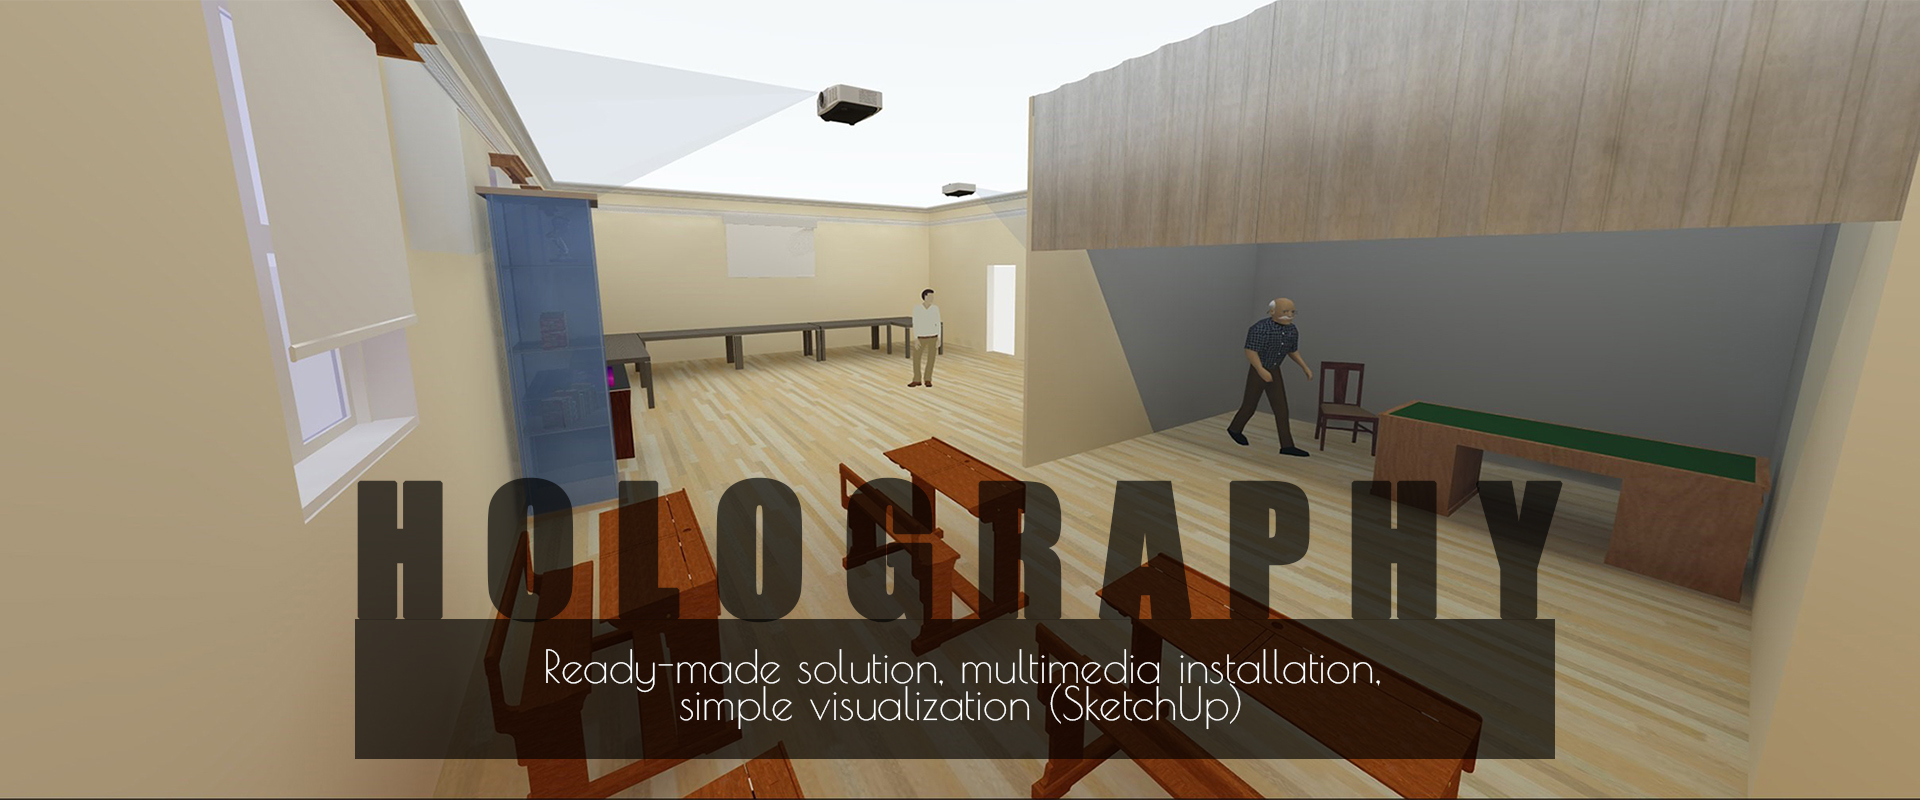
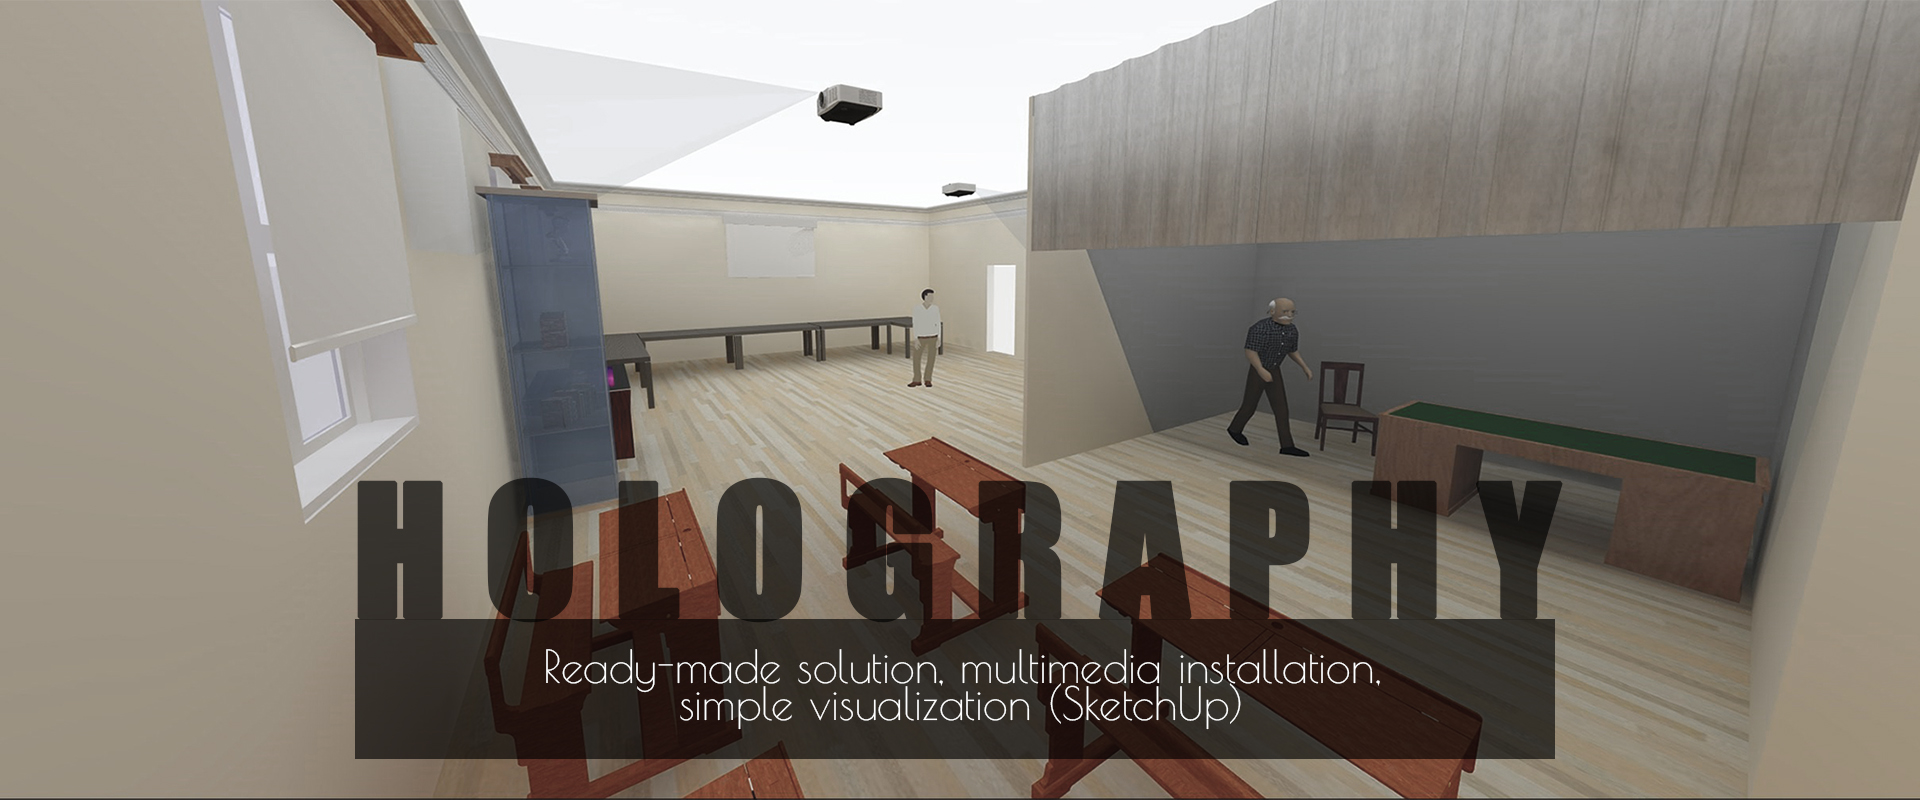
opacity

diff --git a/public/css/main.scss b/public/css/main.scss
@@ -89,18 +89,16 @@ svg {
 	display: none;
 	position: absolute;
 	padding: 10px;
-	width: 340px;
-	height: 220px;
+	width: 70%;
 	text-align: center;
 	line-height: 20px;
 	background-color: rgba(0, 0, 0, 0.637);
-	opacity: 0.8;
+	opacity: 1;
   top: 75%;
-  left: 35.5%;
-  margin-right: -50%;
+  margin: 0 15%;
 	font-family: 'Jura';
-	font-size: 15;
-	font-weight: 600;
+  font-size: 14;
+  font-weight: 600;
   color: antiquewhite;
   z-index: 9999;
 }
@@ -109,15 +107,13 @@ svg {
 	display: none;
 	position: absolute;
 	padding: 10px;
-	width: 340px;
-	height: 150px;
+	width: 70%;
 	text-align: center;
 	line-height: 20px;
 	background-color: rgba(0, 0, 0, 0.637);
-	opacity: 0.8;
+	opacity: 1;
   top: 75%;
-  left: 35.5%;
-  margin-right: -50%;
+  margin: 0 15%;
 	font-family: 'Jura';
   font-size: 14;
   font-weight: 600;
@@ -129,15 +125,13 @@ svg {
 	display: none;
 	position: absolute;
 	padding: 10px;
-	width: 340px;
-	height: 310px;
+	width: 70%;
 	text-align: center;
 	line-height: 20px;
 	background-color: rgba(0, 0, 0, 0.637);
-	opacity: 0.8;
+	opacity: 1;
   top: 75%;
-  left: 35.5%;
-  margin-right: -50%;
+  margin: 0 15%;
 	font-family: 'Jura';
   font-size: 14;
   font-weight: 600;
@@ -149,15 +143,13 @@ svg {
 	display: none;
 	position: absolute;
 	padding: 10px;
-	width: 340px;
-	height: 310px !important;
+	width: 70%;
 	text-align: center;
 	line-height: 20px;
 	background-color: rgba(0, 0, 0, 0.637);
-	opacity: 0.8;
+	opacity: 1;
   top: 75%;
-  left: 35.5%;
-  margin-right: -50%;
+  margin: 0 15%;
 	font-family: 'Jura';
   font-size: 14;
   font-weight: 600;
@@ -169,15 +161,13 @@ svg {
 	display: none;
 	position: absolute;
 	padding: 10px;
-	width: 340px;
-	height: 130px;
+	width: 70%;
 	text-align: center;
 	line-height: 20px;
 	background-color: rgba(0, 0, 0, 0.637);
-	opacity: 0.8;
+	opacity: 1;
   top: 75%;
-  left: 35.5%;
-  margin-right: -50%;
+  margin: 0 15%;
 	font-family: 'Jura';
   font-size: 14;
   font-weight: 600;
